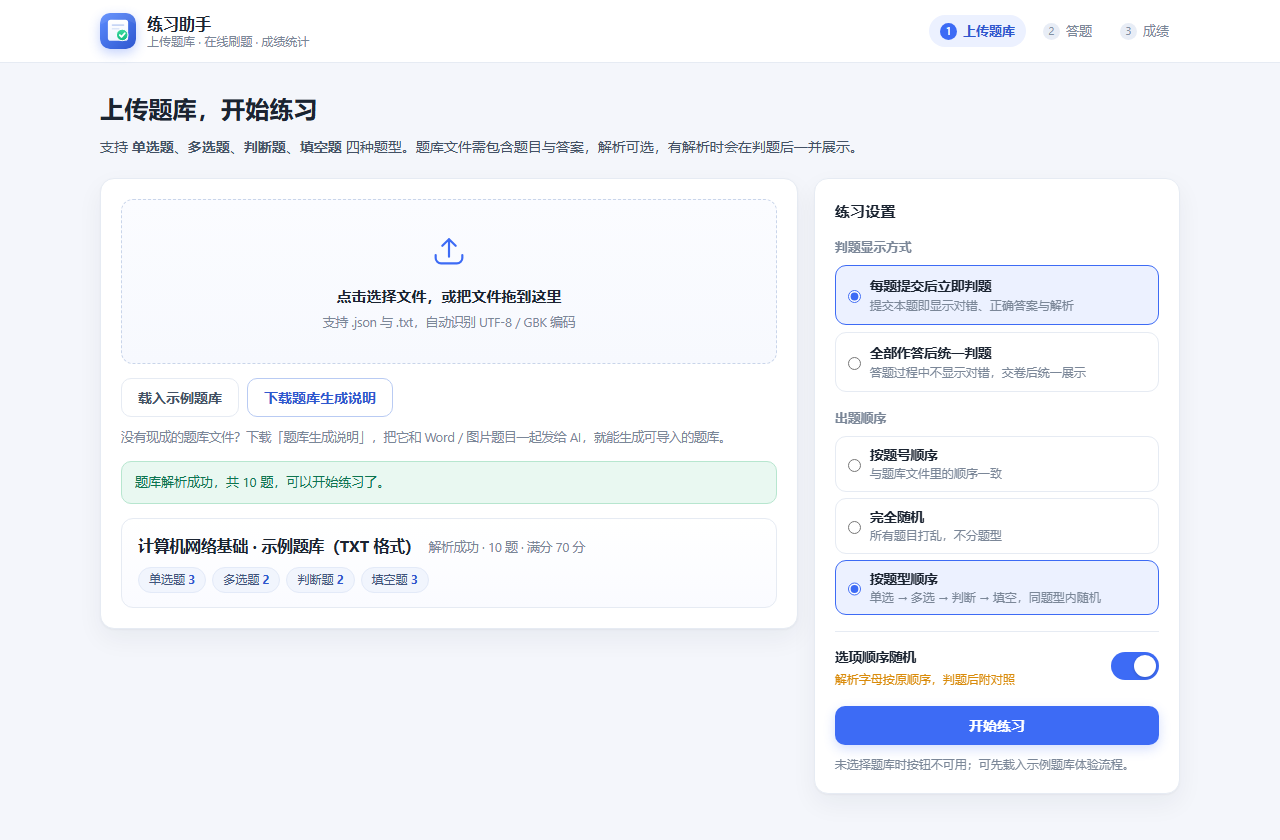
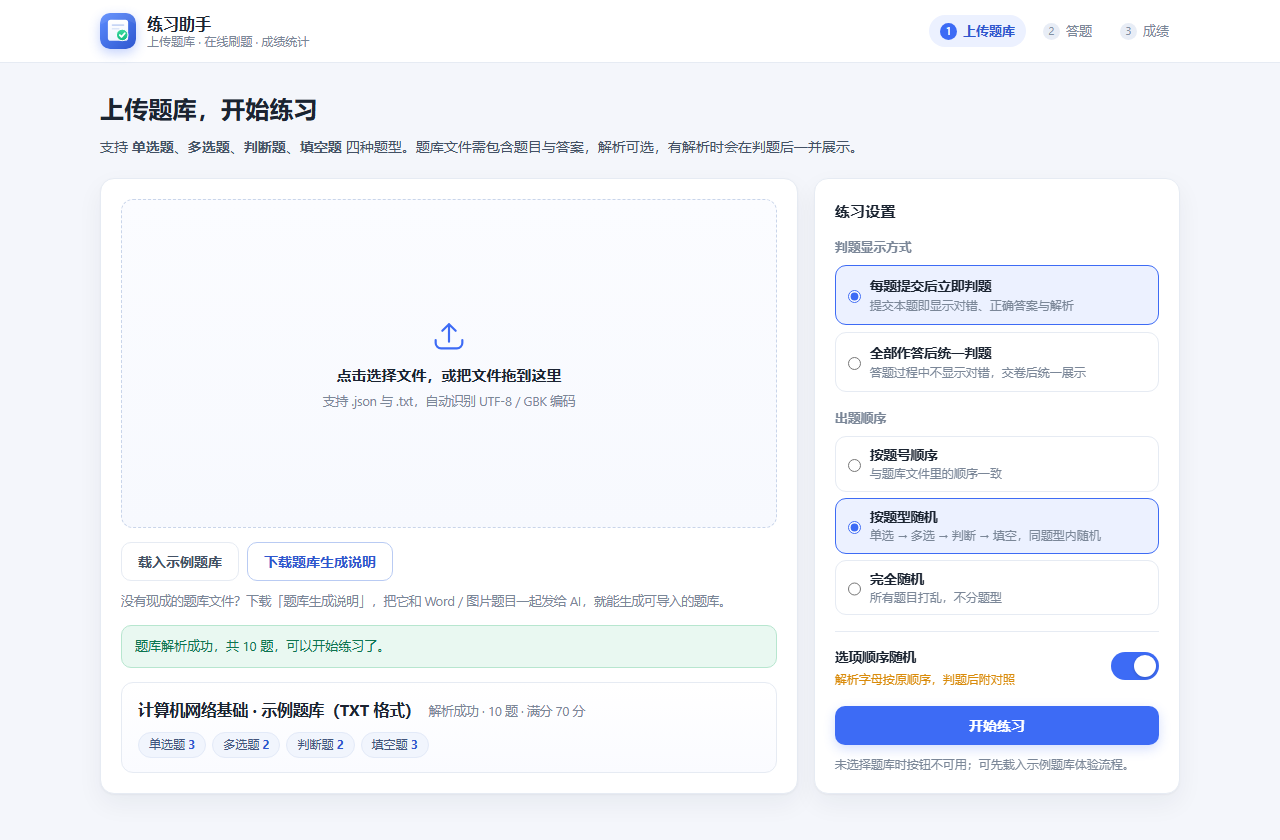
style: 上传页左卡片撑满整行去掉大片空白；出题顺序改为题号顺序 / 按题型随机 / 完全随机
- .upload-grid 左边卡片 align-self: stretch，拖拽区 flex 撑开并内容居中，
  两列高度对齐（空库时不加载时 616/616），不再出现左侧一大块页面空白
- 出题顺序顺序调整为：按题号顺序 → 按题型随机 → 完全随机
- 「按题型顺序」更名为「按题型随机」，练习页标注同步

diff --git a/index.html b/index.html
@@ -100,17 +100,17 @@
             </span>
           </label>
           <label class="choice choice-sm">
+            <input type="radio" name="order" value="byType" />
+            <span class="choice-body">
+              <span class="choice-title">按题型随机</span>
+              <span class="choice-desc">单选 → 多选 → 判断 → 填空，同题型内随机</span>
+            </span>
+          </label>
+          <label class="choice choice-sm">
             <input type="radio" name="order" value="random" />
             <span class="choice-body">
               <span class="choice-title">完全随机</span>
               <span class="choice-desc">所有题目打乱，不分题型</span>
-            </span>
-          </label>
-          <label class="choice choice-sm">
-            <input type="radio" name="order" value="byType" />
-            <span class="choice-body">
-              <span class="choice-title">按题型顺序</span>
-              <span class="choice-desc">单选 → 多选 → 判断 → 填空，同题型内随机</span>
             </span>
           </label>
         </div>

diff --git a/css/style.css b/css/style.css
@@ -142,6 +142,13 @@ code {
   align-items: start;
 }
 
+/* 左侧题库卡撑满整行高度，避免右侧设置面板较高时左边留下大片空白 */
+.upload-grid > .card:not(.settings) {
+  align-self: stretch;
+  display: flex;
+  flex-direction: column;
+}
+
 .practice-body {
   display: grid;
   grid-template-columns: minmax(0, 1.62fr) minmax(250px, .85fr);
@@ -253,6 +260,12 @@ body.modal-open { overflow: hidden; }
   cursor: pointer;
   transition: all .18s ease;
   outline: none;
+  /* 跟随卡片高度伸缩，内容始终居中，卡片不会被拉成上重下空 */
+  flex: 1 1 auto;
+  display: flex;
+  flex-direction: column;
+  align-items: center;
+  justify-content: center;
 }
 
 .dropzone:hover, .dropzone:focus-visible { border-color: var(--primary); background: #f4f8ff; }

diff --git a/js/app.js b/js/app.js
@@ -652,7 +652,7 @@
 
   function modeSummary() {
     const tags = [S.mode === 'instant' ? '每题提交后立即判题' : '全部作答后统一判题'];
-    const orderLabel = { random: '完全随机', byType: '按题型顺序' }[S.order];
+    const orderLabel = { random: '完全随机', byType: '按题型随机' }[S.order];
     if (orderLabel) tags.push(orderLabel);
     if (S.shuffleOptions) tags.push('选项乱序');
     return tags.join(' · ');

diff --git a/README.md b/README.md
@@ -28,7 +28,7 @@
 - **不会做格式也没关系** —— 页面提供可下载的[《题库生成说明》](docs/题库生成说明.md)，连同 Word / PDF / 图片题目一起发给 AI，就能自动转成可导入的题库（详见[下文](#不会写题库让-ai-帮你生成)）。
 - **四种题型全覆盖** —— 单选题、多选题、判断题、填空题。填空题支持多个空，每个空还可以配置多个可接受答案（如「IP地址」或「IP 地址」都算对）。
 - **两种判题节奏** —— ① 每题提交后立即判题，当场看到对错、正确答案和解析；② 全部作答完再统一判题，答题过程不受打扰。
-- **三种出题顺序** —— 按题号顺序（与题库一致）、完全随机、按题型顺序（单选 → 多选 → 判断 → 填空，同题型内随机）。另有一个独立的「选项顺序随机」开关，打开后单选、多选的选项重排并重新编号，答案字母自动跟着映射，判题不受影响。
+- **三种出题顺序** —— 按题号顺序（与题库一致）、按题型随机（单选 → 多选 → 判断 → 填空，同题型内随机）、完全随机。另有一个独立的「选项顺序随机」开关，打开后单选、多选的选项重排并重新编号，答案字母自动跟着映射，判题不受影响。
 - **解析不会读错** —— 有些解析会写「故选 C」，选项一旦重排，字母含义就变了。所以开启「选项顺序随机」前会先提醒；判题后凡是解析里提到选项字母的题，都会在解析上方附一份**原顺序对照**，正确答案也会标注 `（原 B）`，照着原顺序读解析即可。
 - **成绩与错题复盘** —— 总分/满分、正确率、正确/错误/未作答数量、用时一目了然；「全部 / 错题 / 未作答 / 正确」四类筛选，逐题回看你的答案、正确答案与解析；支持一键「重做错题」。
 - **顺手的小细节** —— 答题卡跳题、进度条、计时器、键盘快捷键（`A`–`H` 选择、`Enter` 提交/下一题、`←` `→` 切题）、交卷前对未答题二次确认。所有确认提示都是站内样式弹窗，不会弹出浏览器自带对话框（手机浏览器上尤其明显），支持 Esc 取消、遮罩点击取消。
